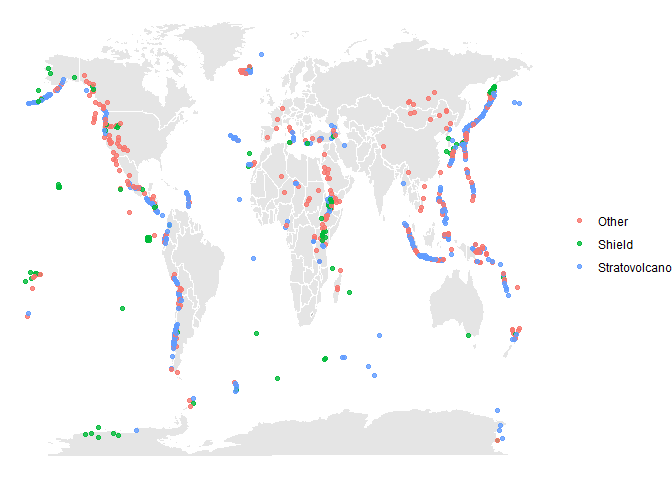
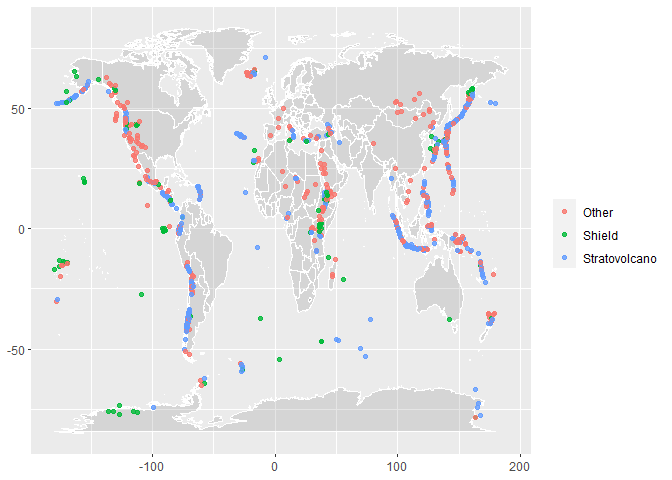
updated r and rstudio

diff --git a/volcano/volcano.html b/volcano/volcano.html
@@ -398,8 +398,12 @@ summary {
 <h2>Too many volcano types</h2>
 <p>See the code below to see how to reduce the number of volcano types to the two most common plus “other”.</p>
 <pre class="r"><code>volcano_df &lt;- volcano_raw %&gt;% # create a new dataframe named volcano_df
-  transmute( # transmute() is a dplyr functino that adds new variables and drops existing ones while preserving the number of rows. The New variables overwrite existing variables of the same name.
-    volcano_type = case_when( # &quot;stratovoclano&quot; and &quot;shield&quot; are the new variable names to collect Stratovolcano(es) and &quot;stratovolcano&quot; into one variable. All other varialbes beyond that and &quot;sheild&quot; are simply named &quot;other&quot;. 
+  transmute( # transmute() is a dplyr functino that adds new variables 
+    # and drops existing ones while preserving the number of rows. 
+    # The New variables overwrite existing variables of the same name.
+    volcano_type = case_when( # &quot;stratovoclano&quot; and &quot;shield&quot; are the new variable names 
+      # to collect Stratovolcano(es) and &quot;stratovolcano&quot; into one variable. 
+      #All other varialbes beyond that and &quot;sheild&quot; are simply named &quot;other&quot;. 
       str_detect(primary_volcano_type, &quot;Stratovolcano&quot;) ~ &quot;Stratovolcano&quot;,
       str_detect(primary_volcano_type, &quot;Shield&quot;) ~ &quot;Shield&quot;,
       TRUE ~ &quot;Other&quot;
@@ -407,8 +411,8 @@ summary {
     volcano_number, latitude, longitude, elevation,
     tectonic_settings, major_rock_1
   ) %&gt;% 
-  mutate_if(is.character, factor) #if a column contains characters, it&#39;s automatically a factor. 
-
+  mutate_if(is.character, factor) #if a column contains characters, 
+#it&#39;s automatically a factor. 
 volcano_df %&gt;%
   count(volcano_type, sort = TRUE)  #Now count the types of volcano according to the new grouping</code></pre>
 <pre><code>## # A tibble: 3 x 2
@@ -426,19 +430,112 @@ ggplot() +
   geom_map(
     data = world, map = world,
     aes(long, lat, map_id = region),
-    color = &quot;white&quot;, fill = &quot;gray50&quot;, size = 0.05, alpha = 0.2
+    color = &quot;white&quot;, fill = &quot;gray50&quot;, size = 0.5, alpha = 0.2
   ) +
   geom_point(
     data = volcano_df,
     aes(longitude, latitude, color = volcano_type),
     alpha = 0.8
   ) +
-  theme_void(base_family = &quot;IBMPlexSans&quot;) +
+  #theme_void(base_family = &quot;IBMPlexSans&quot;) +
   labs(x = NULL, y = NULL, color = NULL)</code></pre>
-<pre><code>## Warning: Ignoring unknown aesthetics: x, y</code></pre>
-<pre><code>## Warning in grid.Call(C_stringMetric, as.graphicsAnnot(x$label)): font family not
-## found in Windows font database</code></pre>
[2 lines of base64/hex data omitted]
+</div>
+<div id="bootstrap-resample-time" class="section level1">
+<h1>Bootstrap resample time!</h1>
+<pre class="r"><code>library(tidymodels)
+volcano_boot &lt;- bootstraps(volcano_df)
+
+volcano_boot</code></pre>
+<pre><code>## # Bootstrap sampling 
+## # A tibble: 25 x 2
+##    splits            id         
+##    &lt;list&gt;            &lt;chr&gt;      
+##  1 &lt;split [958/356]&gt; Bootstrap01
+##  2 &lt;split [958/337]&gt; Bootstrap02
+##  3 &lt;split [958/356]&gt; Bootstrap03
+##  4 &lt;split [958/333]&gt; Bootstrap04
+##  5 &lt;split [958/357]&gt; Bootstrap05
+##  6 &lt;split [958/351]&gt; Bootstrap06
+##  7 &lt;split [958/369]&gt; Bootstrap07
+##  8 &lt;split [958/340]&gt; Bootstrap08
+##  9 &lt;split [958/348]&gt; Bootstrap09
+## 10 &lt;split [958/359]&gt; Bootstrap10
+## # ... with 15 more rows</code></pre>
+<pre class="r"><code>library(themis)
+
+volcano_rec &lt;- recipe(volcano_type ~ ., data = volcano_df) %&gt;%
+  update_role(volcano_number, new_role = &quot;Id&quot;) %&gt;%
+  step_other(tectonic_settings) %&gt;%
+  step_other(major_rock_1) %&gt;%
+  step_dummy(tectonic_settings, major_rock_1) %&gt;%
+  step_zv(all_predictors()) %&gt;%
+  step_normalize(all_predictors()) %&gt;%
+  step_smote(volcano_type)</code></pre>
+<pre class="r"><code>volcano_prep &lt;- prep(volcano_rec)
+juice(volcano_prep)</code></pre>
+<pre><code>## # A tibble: 1,383 x 14
+##    volcano_number latitude longitude elevation volcano_type tectonic_settin~
+##             &lt;dbl&gt;    &lt;dbl&gt;     &lt;dbl&gt;     &lt;dbl&gt; &lt;fct&gt;                   &lt;dbl&gt;
+##  1         213004   0.746      0.101   -0.131  Other                  -0.289
+##  2         284141   0.172      1.11    -1.39   Other                  -0.289
+##  3         282080   0.526      0.975   -0.535  Other                  -0.289
+##  4         285070   0.899      1.10    -0.263  Other                  -0.289
+##  5         320020   1.44      -1.45     0.250  Other                  -0.289
+##  6         221060  -0.0377     0.155   -0.920  Other                  -0.289
+##  7         273088   0.0739     0.888    0.330  Other                  -0.289
+##  8         266020  -0.451      0.918   -0.0514 Other                  -0.289
+##  9         233011  -0.873      0.233   -0.280  Other                  -0.289
+## 10         257040  -0.989      1.32    -0.380  Other                  -0.289
+## # ... with 1,373 more rows, and 8 more variables:
+## #   tectonic_settings_Rift.zone...Oceanic.crust....15.km. &lt;dbl&gt;,
+## #   tectonic_settings_Subduction.zone...Continental.crust...25.km. &lt;dbl&gt;,
+## #   tectonic_settings_Subduction.zone...Oceanic.crust....15.km. &lt;dbl&gt;,
+## #   tectonic_settings_other &lt;dbl&gt;, major_rock_1_Basalt...Picro.Basalt &lt;dbl&gt;,
+## #   major_rock_1_Dacite &lt;dbl&gt;,
+## #   major_rock_1_Trachybasalt...Tephrite.Basanite &lt;dbl&gt;,
+## #   major_rock_1_other &lt;dbl&gt;</code></pre>
+<blockquote>
+<p>The ranger implementation for random forest can handle multinomial classification without any special handling. - Julia Silge</p>
+</blockquote>
+<pre class="r"><code>rf_spec &lt;- rand_forest(trees = 1000) %&gt;%
+  set_mode(&quot;classification&quot;) %&gt;%
+  set_engine(&quot;ranger&quot;)
+
+volcano_wf &lt;- workflow() %&gt;%
+  add_recipe(volcano_rec) %&gt;%
+  add_model(rf_spec)
+
+volcano_wf</code></pre>
+<pre><code>## == Workflow ==============================================================================================
+## Preprocessor: Recipe
+## Model: rand_forest()
+## 
+## -- Preprocessor ------------------------------------------------------------------------------------------
+## 6 Recipe Steps
+## 
+## * step_other()
+## * step_other()
+## * step_dummy()
+## * step_zv()
+## * step_normalize()
+## * step_smote()
+## 
+## -- Model -------------------------------------------------------------------------------------------------
+## Random Forest Model Specification (classification)
+## 
+## Main Arguments:
+##   trees = 1000
+## 
+## Computational engine: ranger</code></pre>
+<div id="fitting-the-workflow-to-the-resamples" class="section level2">
+<h2>Fitting the workflow to the resamples</h2>
+<pre class="r"><code>volcano_res &lt;- fit_resamples(
+  volcano_wf,
+  resamples = volcano_boot,
+  control = control_resamples(save_pred = TRUE)
+)</code></pre>
+</div>
 </div>
 
 

diff --git a/volcano/volcano.md b/volcano/volcano.md
@@ -50,8 +50,12 @@ See the code below to see how to reduce the number of volcano types to the two m
 
 ```r
 volcano_df <- volcano_raw %>% # create a new dataframe named volcano_df
-  transmute( # transmute() is a dplyr functino that adds new variables and drops existing ones while preserving the number of rows. The New variables overwrite existing variables of the same name.
-    volcano_type = case_when( # "stratovoclano" and "shield" are the new variable names to collect Stratovolcano(es) and "stratovolcano" into one variable. All other varialbes beyond that and "sheild" are simply named "other". 
+  transmute( # transmute() is a dplyr functino that adds new variables 
+    # and drops existing ones while preserving the number of rows. 
+    # The New variables overwrite existing variables of the same name.
+    volcano_type = case_when( # "stratovoclano" and "shield" are the new variable names 
+      # to collect Stratovolcano(es) and "stratovolcano" into one variable. 
+      #All other varialbes beyond that and "sheild" are simply named "other". 
       str_detect(primary_volcano_type, "Stratovolcano") ~ "Stratovolcano",
       str_detect(primary_volcano_type, "Shield") ~ "Shield",
       TRUE ~ "Other"
@@ -59,8 +63,8 @@ volcano_df <- volcano_raw %>% # create a new dataframe named volcano_df
     volcano_number, latitude, longitude, elevation,
     tectonic_settings, major_rock_1
   ) %>% 
-  mutate_if(is.character, factor) #if a column contains characters, it's automatically a factor. 
-
+  mutate_if(is.character, factor) #if a column contains characters, 
+#it's automatically a factor. 
 volcano_df %>%
   count(volcano_type, sort = TRUE)  #Now count the types of volcano according to the new grouping
 ```
@@ -84,26 +88,141 @@ ggplot() +
   geom_map(
     data = world, map = world,
     aes(long, lat, map_id = region),
-    color = "white", fill = "gray50", size = 0.05, alpha = 0.2
+    color = "white", fill = "gray50", size = 0.5, alpha = 0.2
   ) +
   geom_point(
     data = volcano_df,
     aes(longitude, latitude, color = volcano_type),
     alpha = 0.8
   ) +
-  theme_void(base_family = "IBMPlexSans") +
+  #theme_void(base_family = "IBMPlexSans") +
   labs(x = NULL, y = NULL, color = NULL)
 ```
 
-```
-## Warning: Ignoring unknown aesthetics: x, y
-```
-
-```
-## Warning in grid.Call(C_stringMetric, as.graphicsAnnot(x$label)): font family not
-## found in Windows font database
-```
-
 ![](volcano_files/figure-html/unnamed-chunk-5-1.png)<!-- -->
+
+
+# Bootstrap resample time!
+
+
+```r
+library(tidymodels)
+volcano_boot <- bootstraps(volcano_df)
+
+volcano_boot
+```
+
+```
+## # Bootstrap sampling 
+## # A tibble: 25 x 2
+##    splits            id         
+##    <list>            <chr>      
+##  1 <split [958/356]> Bootstrap01
+##  2 <split [958/337]> Bootstrap02
+##  3 <split [958/356]> Bootstrap03
+##  4 <split [958/333]> Bootstrap04
+##  5 <split [958/357]> Bootstrap05
+##  6 <split [958/351]> Bootstrap06
+##  7 <split [958/369]> Bootstrap07
+##  8 <split [958/340]> Bootstrap08
+##  9 <split [958/348]> Bootstrap09
+## 10 <split [958/359]> Bootstrap10
+## # ... with 15 more rows
+```
+
+
+
+```r
+library(themis)
+
+volcano_rec <- recipe(volcano_type ~ ., data = volcano_df) %>%
+  update_role(volcano_number, new_role = "Id") %>%
+  step_other(tectonic_settings) %>%
+  step_other(major_rock_1) %>%
+  step_dummy(tectonic_settings, major_rock_1) %>%
+  step_zv(all_predictors()) %>%
+  step_normalize(all_predictors()) %>%
+  step_smote(volcano_type)
+```
+
+
+```r
+volcano_prep <- prep(volcano_rec)
+juice(volcano_prep)
+```
+
+```
+## # A tibble: 1,383 x 14
+##    volcano_number latitude longitude elevation volcano_type tectonic_settin~
+##             <dbl>    <dbl>     <dbl>     <dbl> <fct>                   <dbl>
+##  1         213004   0.746      0.101   -0.131  Other                  -0.289
+##  2         284141   0.172      1.11    -1.39   Other                  -0.289
+##  3         282080   0.526      0.975   -0.535  Other                  -0.289
+##  4         285070   0.899      1.10    -0.263  Other                  -0.289
+##  5         320020   1.44      -1.45     0.250  Other                  -0.289
+##  6         221060  -0.0377     0.155   -0.920  Other                  -0.289
+##  7         273088   0.0739     0.888    0.330  Other                  -0.289
+##  8         266020  -0.451      0.918   -0.0514 Other                  -0.289
+##  9         233011  -0.873      0.233   -0.280  Other                  -0.289
+## 10         257040  -0.989      1.32    -0.380  Other                  -0.289
+## # ... with 1,373 more rows, and 8 more variables:
+## #   tectonic_settings_Rift.zone...Oceanic.crust....15.km. <dbl>,
+## #   tectonic_settings_Subduction.zone...Continental.crust...25.km. <dbl>,
+## #   tectonic_settings_Subduction.zone...Oceanic.crust....15.km. <dbl>,
+## #   tectonic_settings_other <dbl>, major_rock_1_Basalt...Picro.Basalt <dbl>,
+## #   major_rock_1_Dacite <dbl>,
+## #   major_rock_1_Trachybasalt...Tephrite.Basanite <dbl>,
+## #   major_rock_1_other <dbl>
+```
+
+> The ranger implementation for random forest can handle multinomial classification without any special handling. - Julia Silge
+
+
+```r
+rf_spec <- rand_forest(trees = 1000) %>%
+  set_mode("classification") %>%
+  set_engine("ranger")
+
+volcano_wf <- workflow() %>%
+  add_recipe(volcano_rec) %>%
+  add_model(rf_spec)
+
+volcano_wf
+```
+
+```
+## == Workflow ==============================================================================================
+## Preprocessor: Recipe
+## Model: rand_forest()
+## 
+## -- Preprocessor ------------------------------------------------------------------------------------------
+## 6 Recipe Steps
+## 
+## * step_other()
+## * step_other()
+## * step_dummy()
+## * step_zv()
+## * step_normalize()
+## * step_smote()
+## 
+## -- Model -------------------------------------------------------------------------------------------------
+## Random Forest Model Specification (classification)
+## 
+## Main Arguments:
+##   trees = 1000
+## 
+## Computational engine: ranger
+```
+
+## Fitting the workflow to the resamples
+
+
+```r
+volcano_res <- fit_resamples(
+  volcano_wf,
+  resamples = volcano_boot,
+  control = control_resamples(save_pred = TRUE)
+)
+```
 
 
